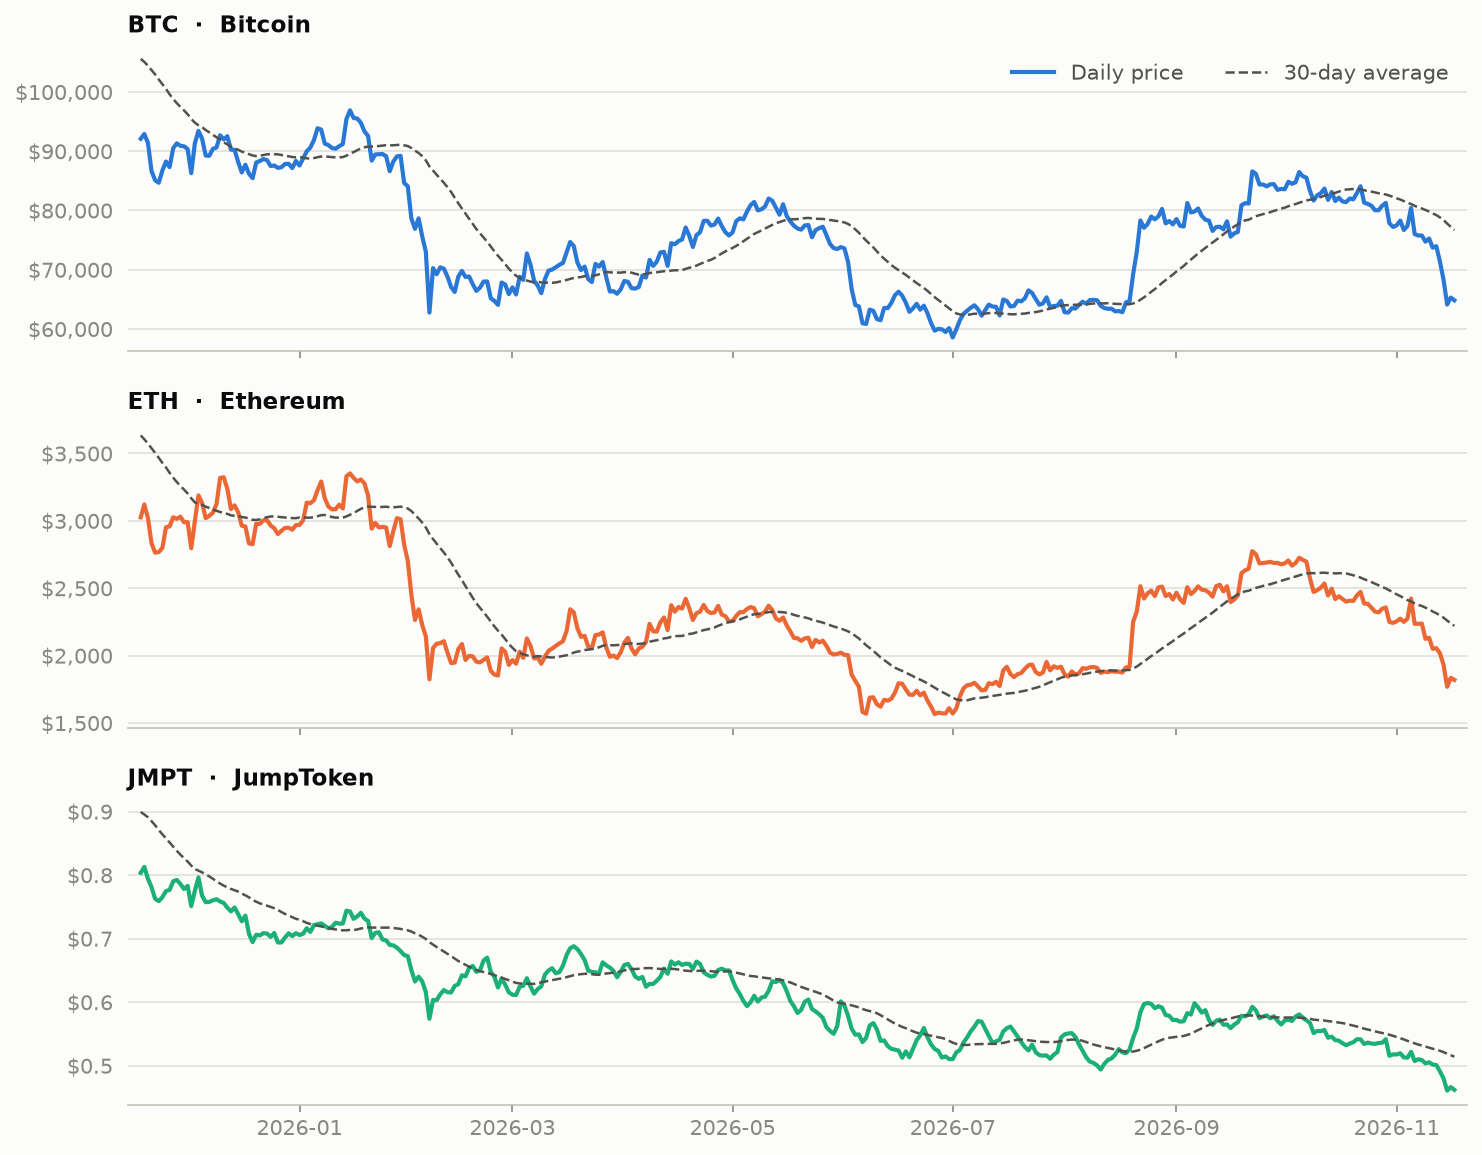
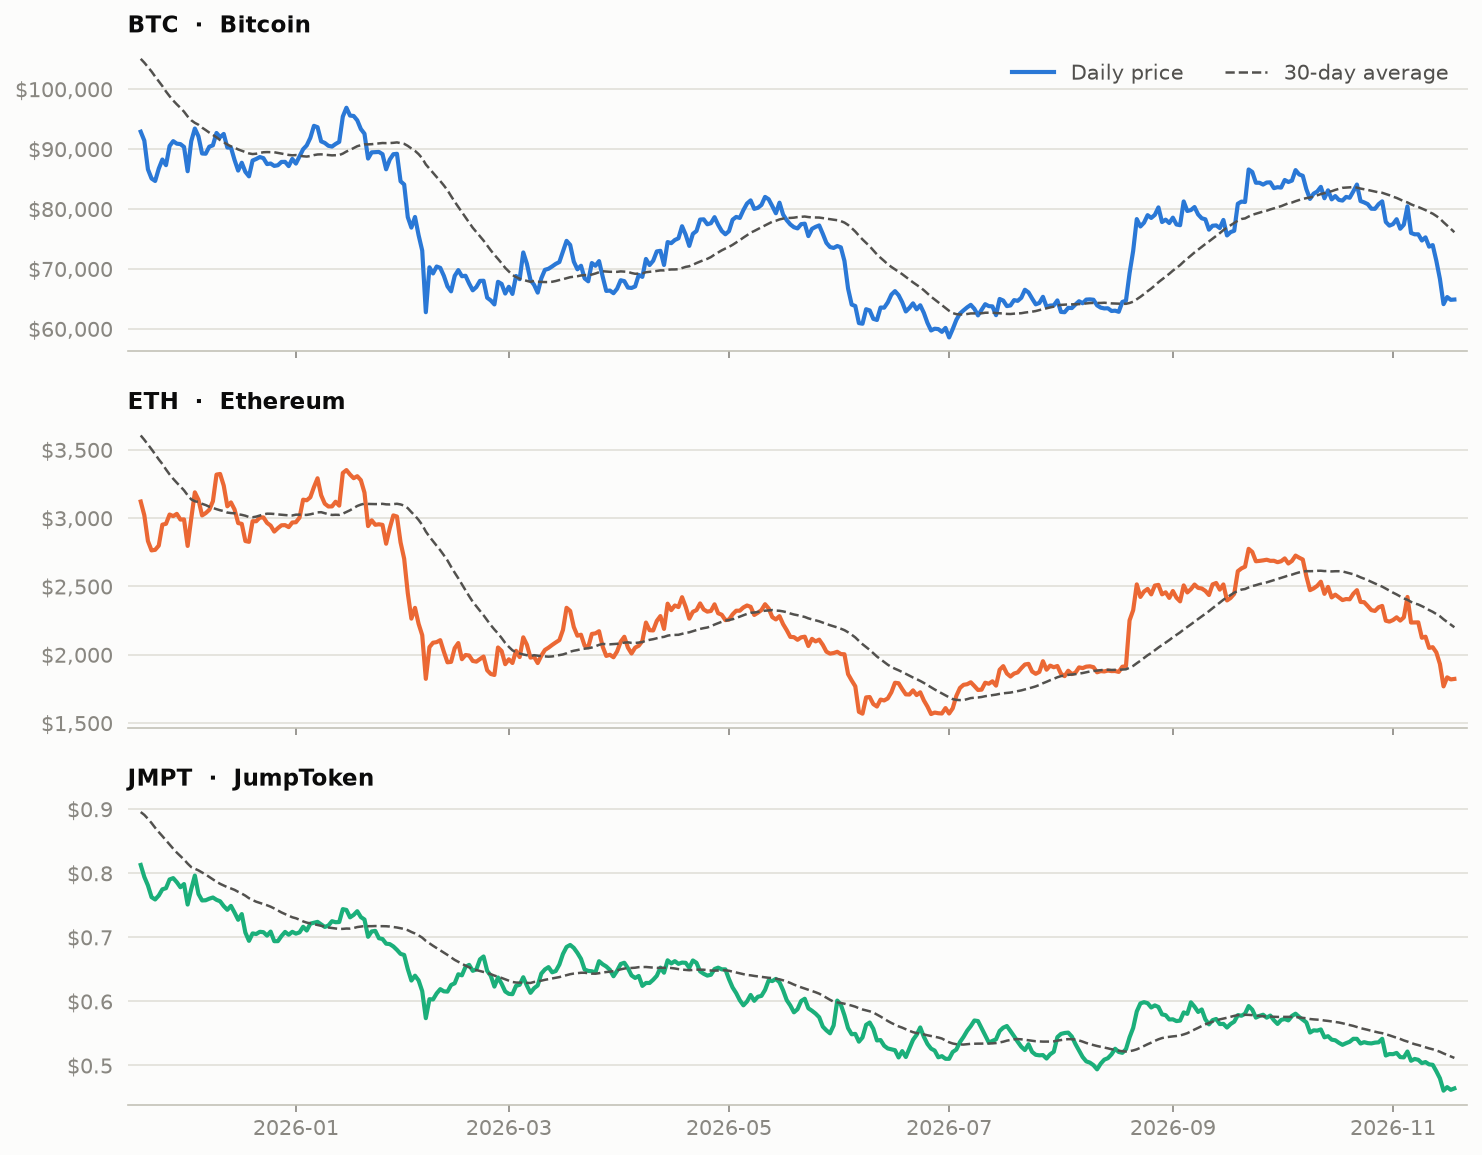
data: market update 2026-11-18

diff --git a/README.md b/README.md
@@ -9,13 +9,13 @@ The project compares two of the largest cryptocurrencies with a small-cap token:
 ## Latest stats
 
 <!-- STATS:START -->
-_Snapshot as of **2026-11-17 00:00 UTC**. Updated automatically every day._
+_Snapshot as of **2026-11-18 00:00 UTC**. Updated automatically every day._
 
 | Coin | Price | 1 day | 7 days | 30 days | 1 year | Volatility (30d) | Market cap |
 |:--|--:|--:|--:|--:|--:|--:|--:|
-| **BTC** Bitcoin | $64,841 | ▼ -0.7% | ▼ -13.9% | ▼ -20.4% | ▼ -31.2% | 44% | $1.30T |
-| **ETH** Ethereum | $1,819 | ▼ -0.8% | ▼ -14.7% | ▼ -24.2% | ▼ -41.2% | 60% | $222.38B |
-| **JMPT** JumpToken | $0.462 | ▼ -0.9% | ▼ -8.6% | ▼ -13.2% | ▼ -43.6% | 29% | $6.82M |
+| **BTC** Bitcoin | $64,889 | ▲ +0.1% | ▼ -12.0% | ▼ -20.9% | ▼ -29.5% | 44% | $1.31T |
+| **ETH** Ethereum | $1,823 | ▲ +0.2% | ▼ -11.1% | ▼ -24.3% | ▼ -39.8% | 60% | $222.82B |
+| **JMPT** JumpToken | $0.4642 | ▲ +0.5% | ▼ -7.5% | ▼ -13.2% | ▼ -42.2% | 29% | $6.85M |
 <!-- STATS:END -->
 
 ## Charts
